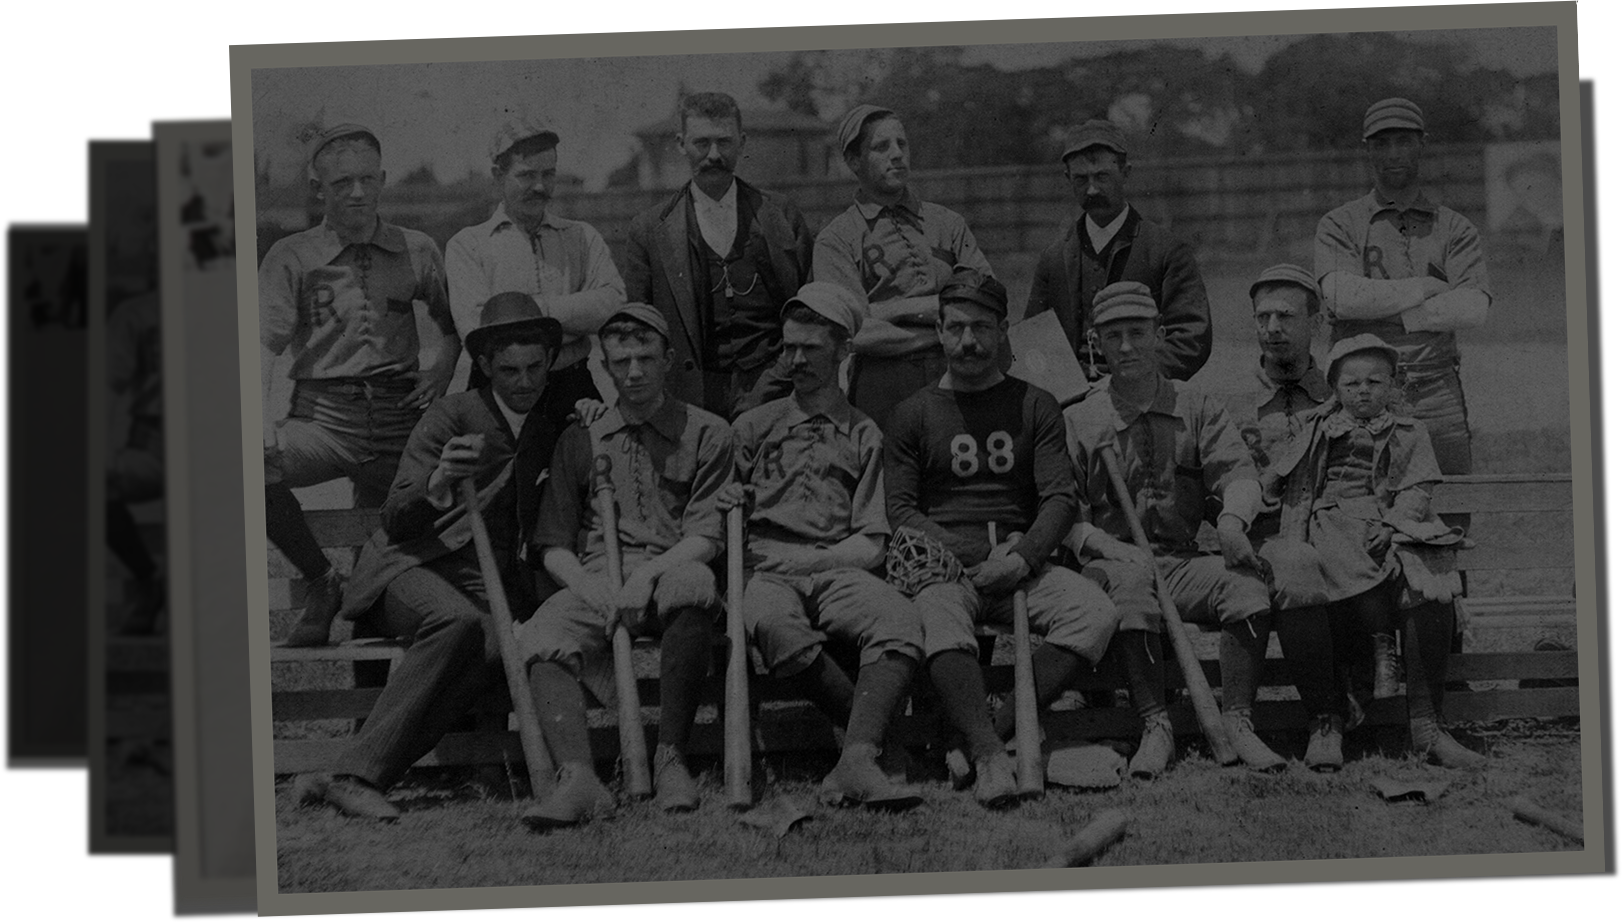
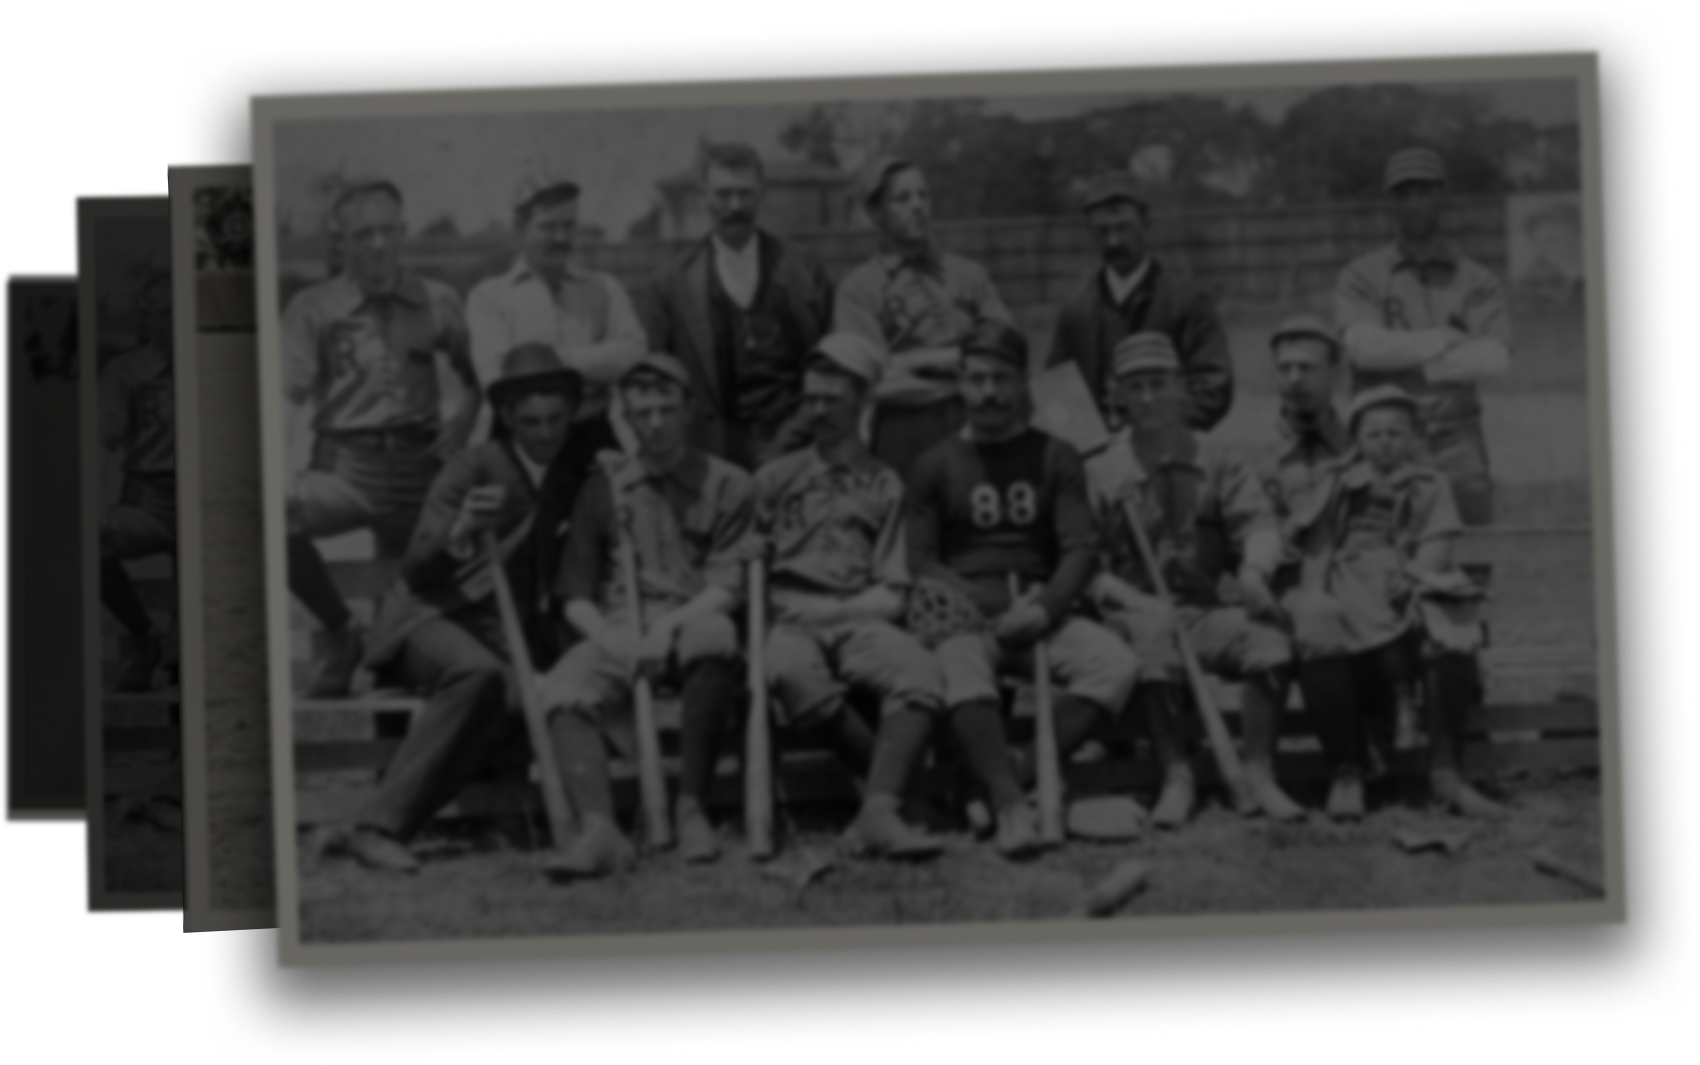
Adjusted stacked photo background effect

diff --git a/src/App.jsx b/src/App.jsx
@@ -912,14 +912,21 @@ export default function BaseballTimeMachine() {
               >
                 {/* Background stack effect */}
                 <div 
-                  className="absolute top-2 left-2 right-2 bottom-0 z-0"
+                  className="absolute"
                   style={{
                     backgroundImage: 'url(/bgfade.png)',
-                    backgroundSize: 'contain',
+                    backgroundSize: '100% 100%',
                     backgroundPosition: 'center',
                     backgroundRepeat: 'no-repeat',
-                    transform: 'translateY(20px)',
-                    opacity: 0.8
+                    width: '100%',
+                    height: '100%',
+                    top: '10px',
+                    left: '0',
+                    right: '0',
+                    bottom: '0',
+                    zIndex: 0,
+                    transform: 'scale(1.1)',
+                    opacity: 0.9
                   }}
                 />
                 
